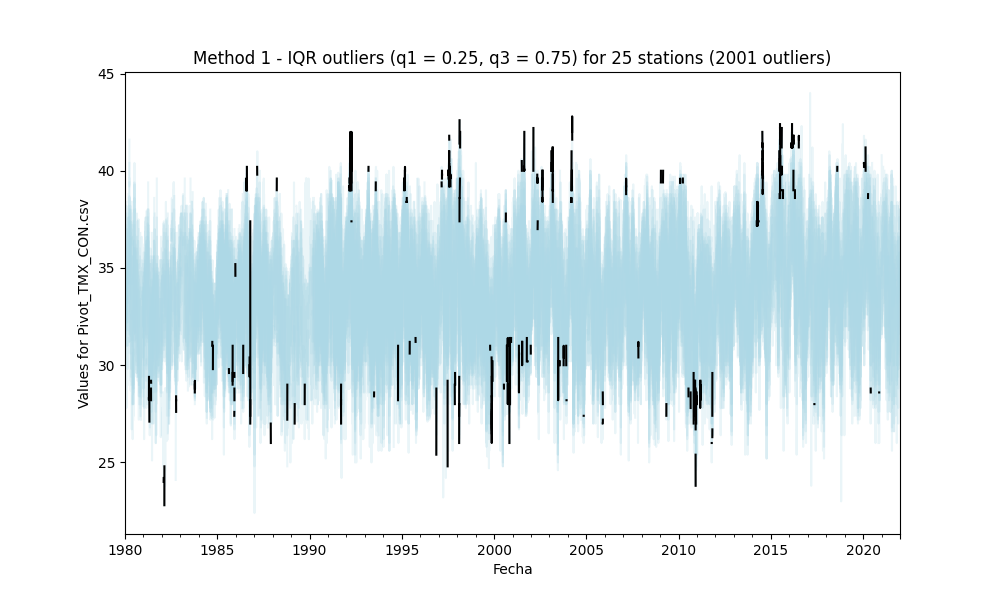
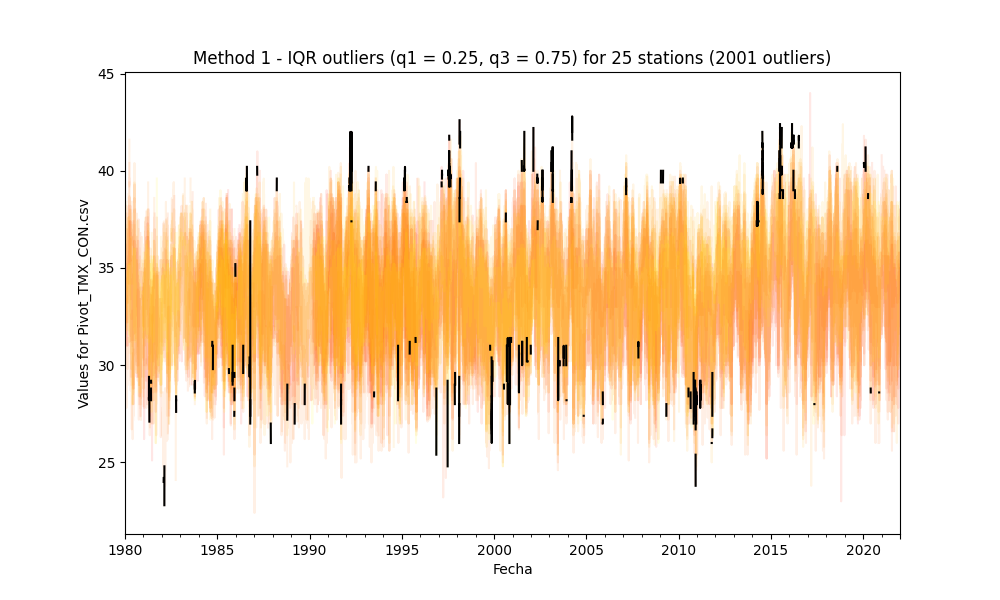
General update.

Changed region(s): [[0.124, 0.24, 0.899, 0.75]]

diff --git a/.src/Outlier.py b/.src/Outlier.py
@@ -34,18 +34,19 @@ def find_outliers_IQR(df):
 
 
 # General variables
-pivot_table_name = 'Pivot_TMX_CON.csv' # Pivot table name to process
-path_input = 'D:/R.LTWB/.datasets/IDEAM_EDA/' # Current location from pivot tables
+pivot_table_name = 'Pivot_TMX_CON.csv'  # Pivot table name to process
+path_input = 'D:/R.LTWB/.datasets/IDEAM_EDA/'  # Current location from pivot tables
 station_file = path_input + pivot_table_name  # Current pivot IDEAM records file for a specified parameter
 path = 'D:/R.LTWB/.datasets/IDEAM_Outlier/'  # Your local output path, use ../.datasets/IDEAM_Outlier/ for relative path
-file_log_name = path + 'Outlier_IQR_' + pivot_table_name + '.md' # First file log
+file_log_name = path + 'Outlier_IQR_' + pivot_table_name + '.md'  # First file log
 file_log = open(file_log_name, 'w+')   # w+ create the file if it doesn't exist
 date_record_name = 'Fecha'  # IDEAM date field name for the record values
+plot_colormap = 'autumn'  # Color theme for plot graphics, https://matplotlib.org/stable/tutorials/colors/colormaps.html
 sample_records = 3  # Records to show in the sample table head and tail
 fig_size = 5  # Height size for figures plot
 print_table_sample = True
-q1_val = 0.25 # Default is 0.25
-q3_val = 0.75 # Default is 0.75
+q1_val = 0.25  # Default is 0.25
+q3_val = 0.75  # Default is 0.75
 
 
 # Header
@@ -87,8 +88,8 @@ outlier_file = 'Outlier_IQR_' + pivot_table_name
 print_log('\nOutliers table: [%s](../../.datasets/IDEAM_Outlier/%s)' % (outlier_file, outlier_file))
 outliers.to_csv(path + outlier_file)
 print_log('\nOutliers parameters'
-          '\n* q1: quartile %s' %str(q1_val) +
-          '\n* q3: quartile %s' %str(q3_val) +
+          '\n* q1: quartile %s' % str(q1_val) +
+          '\n* q3: quartile %s' % str(q3_val) +
           '\n* IQR: interquartile range (q3-q1)' +
           '\n* OlBottomLim: outlier bottom limit (q1-1.5*IQR)'
           '\n* OlTopLim: outlier top limit (q3+1.5*IQR)'
@@ -113,7 +114,7 @@ df_concat = pd.concat([df_q1, df_q3, df_IQR, df_bottom_lim, df_top_lim, df_min, 
 print_log(df_concat.to_markdown(), center_div=True)
 # Plot values and outliers
 df_outlier = pd.read_csv(path + outlier_file, low_memory=False, parse_dates=[date_record_name], index_col=date_record_name)
-ax = df.plot(color='lightblue', legend=False, alpha=0.25, figsize=(12, 6))
+ax = df.plot(colormap=plot_colormap, legend=False, alpha=0.1, figsize=(12, 6))  # colormap can be replaced by color='lightblue'
 df_outlier.plot(ax=ax, color='black', legend=False, figsize=(fig_size*2, fig_size+1))
 plt.title('Method 1 - IQR outliers (q1 = %s, q3 = %s) for %d stations (%d outliers)' % (str(q1_val), str(q3_val), df.shape[1], df_concat['OlCount'].sum()))
 ax.set_ylabel('Values for %s' % pivot_table_name)

diff --git a/.datasets/IDEAM_Outlier/Outlier_IQR_Pivot_PTPM_TT_M.csv.md b/.datasets/IDEAM_Outlier/Outlier_IQR_Pivot_PTPM_TT_M.csv.md
@@ -1,9 +1,9 @@
 ## Outliers detection and processing
 
 * Processed file: D:/R.LTWB/.datasets/IDEAM_EDA/Pivot_PTPM_TT_M.csv
-* Execution date: 2022-11-02 19:39:35.330399
+* Execution date: 2022-11-02 19:46:34.781065
 * Python version: 3.10.5 (tags/v3.10.5:f377153, Jun  6 2022, 16:14:13) [MSC v.1929 64 bit (AMD64)]
-* Python path: ['D:\\R.LTWB\\.src', 'D:\\R.LTWB', 'D:\\R.GISPython', 'D:\\R.HydroTools.wiki', 'D:\\R.TeachingResearchGuide']
+* Python path: ['D:\\R.LTWB\\.src', 'D:\\R.LTWB', 'D:\\R.TeachingResearchGuide', 'D:\\R.HydroTools.wiki', 'D:\\R.HydroTools']
 * matplotlib version: 3.6.0
 * pandas version: 1.4.3
 * Print table sample: True

diff --git a/.datasets/IDEAM_Outlier/Outlier_IQR_Pivot_TMX_CON.csv.md b/.datasets/IDEAM_Outlier/Outlier_IQR_Pivot_TMX_CON.csv.md
@@ -1,9 +1,9 @@
 ## Outliers detection and processing
 
 * Processed file: D:/R.LTWB/.datasets/IDEAM_EDA/Pivot_TMX_CON.csv
-* Execution date: 2022-11-02 19:41:53.840151
+* Execution date: 2022-11-02 19:47:13.854193
 * Python version: 3.10.5 (tags/v3.10.5:f377153, Jun  6 2022, 16:14:13) [MSC v.1929 64 bit (AMD64)]
-* Python path: ['D:\\R.LTWB\\.src', 'D:\\R.LTWB', 'D:\\R.GISPython', 'D:\\R.HydroTools.wiki', 'D:\\R.TeachingResearchGuide']
+* Python path: ['D:\\R.LTWB\\.src', 'D:\\R.LTWB', 'D:\\R.TeachingResearchGuide', 'D:\\R.HydroTools.wiki', 'D:\\R.HydroTools']
 * matplotlib version: 3.6.0
 * pandas version: 1.4.3
 * Print table sample: True
